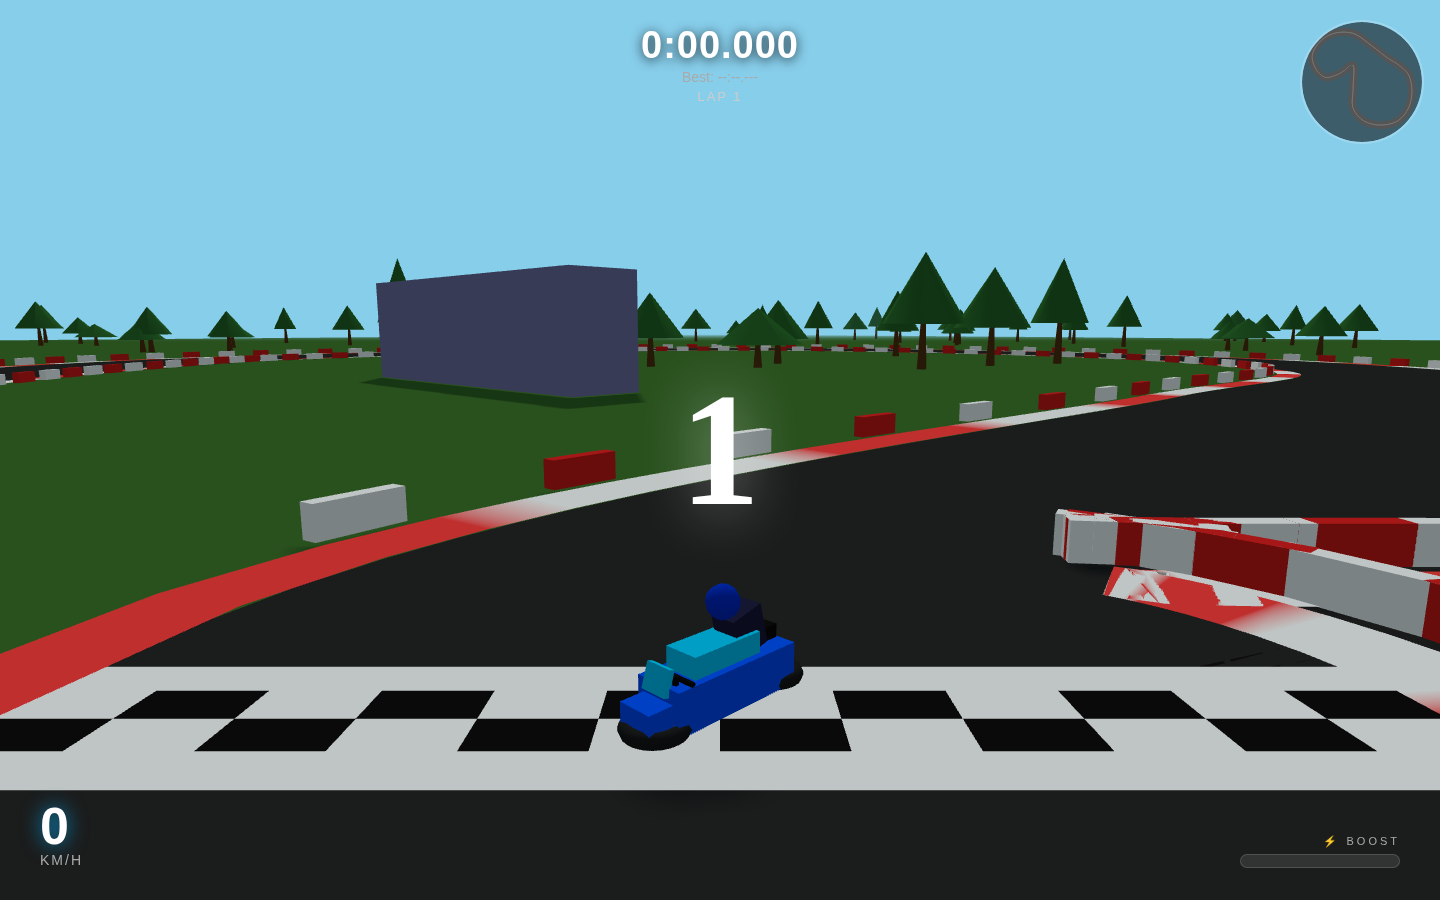
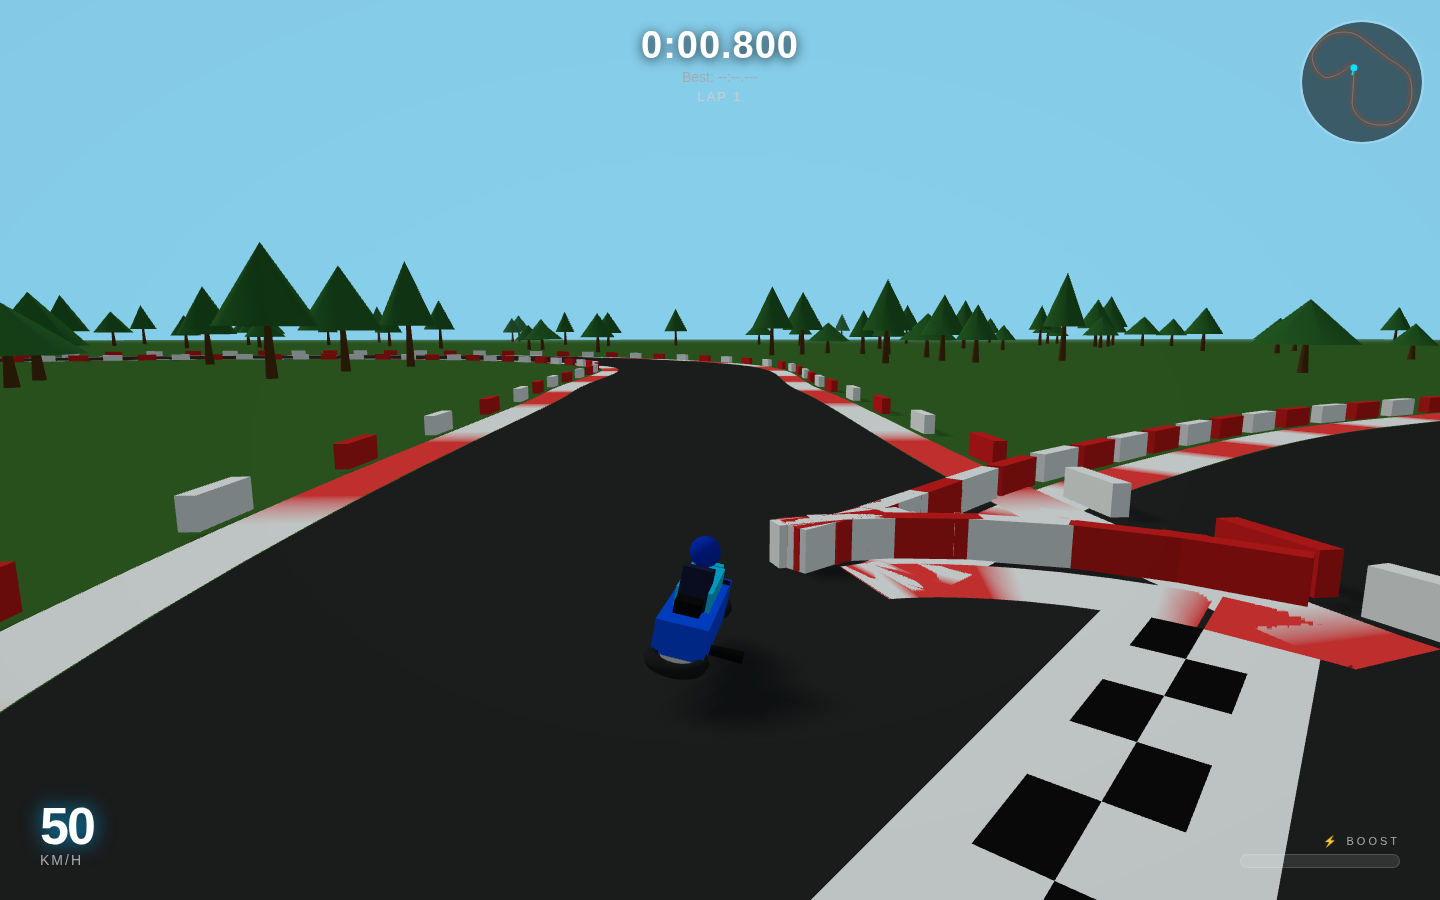
Fix bike movement direction bugs in apex-riders
Four coupled orientation bugs made the bike drive and handle wrong:

- Model faced backward: meshes authored with nose at local -Z while
  travel is +Z, so the bike visually drove in reverse. Wrap meshes in a
  lean group and flip the body 180° so the nose leads.
- Steering inverted: forward is (sin h, cos h); increasing heading turns
  toward the bike's left, so D/right turned left. Subtract steer instead.
- Lean inverted: bike banked out of corners; flip lean sign to roll in.
- Tire smoke now trails from the rear (fixed by the model flip).

Verified numerically (screen-space turn direction) and visually.

https://claude.ai/code/session_019KyP1du9NMdK5UEc7AWaxS

diff --git a/apex-riders/src/bike.ts b/apex-riders/src/bike.ts
@@ -56,9 +56,9 @@ export class Bike {
       onTrack: true,
       prevLapDot: 0,
     };
-    const { group, body } = buildBikeModel();
+    const { group, leanGroup } = buildBikeModel();
     this.model = group;
-    this.bikeBody = body;
+    this.bikeBody = leanGroup;
     this.smokeSystem = new SmokeSystem();
   }
 
@@ -106,10 +106,12 @@ export class Bike {
     }
 
     // ── Steering ───────────────────────────────────────────────
+    // +steer = right. Forward is (sin h, cos h); decreasing heading
+    // rotates forward toward the bike's right, so steer subtracts.
     if (s.speed > 0.5) {
       const sf = Math.min(s.speed / P.TOP_SPEED, 1);
       const turnRate = lerp(P.MAX_TURN_SLOW, P.MAX_TURN_FAST, sf);
-      s.heading += input.steer * turnRate * dt;
+      s.heading -= input.steer * turnRate * dt;
     }
 
     // ── Drift ──────────────────────────────────────────────────
@@ -134,8 +136,9 @@ export class Bike {
     s.position.y = 0.3;
 
     // ── Lean ───────────────────────────────────────────────────
+    // +steer (right) rolls the bike into the corner (positive lean).
     const speedFactor = Math.min(s.speed / P.TOP_SPEED, 1);
-    const targetLean = -input.steer * speedFactor * P.MAX_LEAN;
+    const targetLean = input.steer * speedFactor * P.MAX_LEAN;
     s.leanAngle += (targetLean - s.leanAngle) * P.LEAN_SPEED * dt;
 
     // ── Track query ────────────────────────────────────────────
@@ -178,10 +181,15 @@ export class Bike {
 
 // ── Bike mesh builder ─────────────────────────────────────────────────────────
 
-function buildBikeModel(): { group: THREE.Group; body: THREE.Group } {
+function buildBikeModel(): { group: THREE.Group; leanGroup: THREE.Group } {
   const group = new THREE.Group();
+  // leanGroup rolls about the travel axis (lean). body is flipped 180° so the
+  // authored nose (local -Z) points along the direction of travel (+Z).
+  const leanGroup = new THREE.Group();
+  group.add(leanGroup);
   const body = new THREE.Group();
-  group.add(body);
+  body.rotation.y = Math.PI;
+  leanGroup.add(body);
 
   const matBody = new THREE.MeshLambertMaterial({ color: 0x0055ff });
   const matAccent = new THREE.MeshLambertMaterial({ color: 0x00ccff });
@@ -227,7 +235,7 @@ function buildBikeModel(): { group: THREE.Group; body: THREE.Group } {
   rb.rotation.x = -0.25;
   addMesh(body, new THREE.SphereGeometry(0.22, 10, 8), matHelmet, 0, 1.52, 0.05);
 
-  return { group, body };
+  return { group, leanGroup };
 }
 
 function addMesh(
